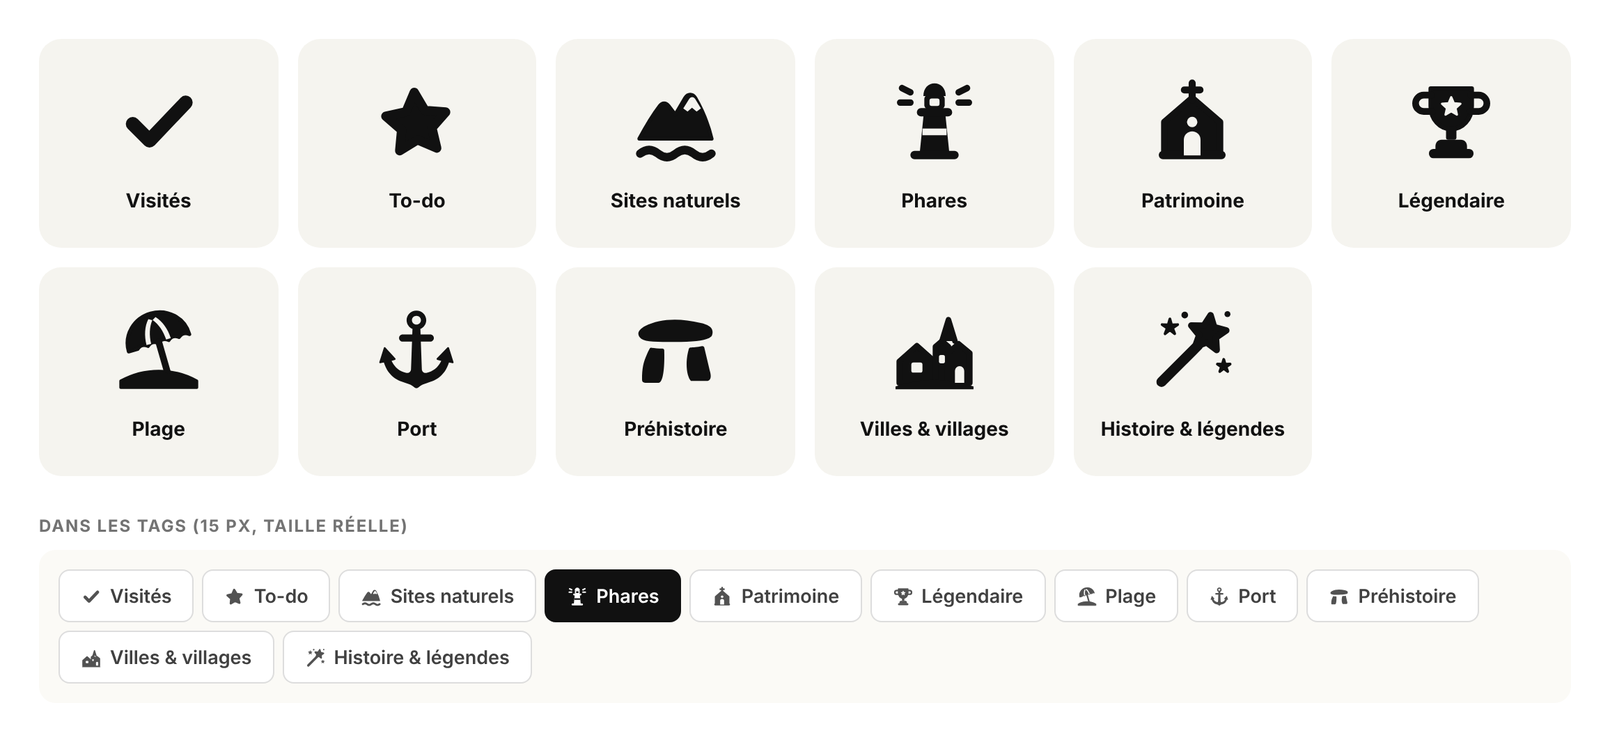
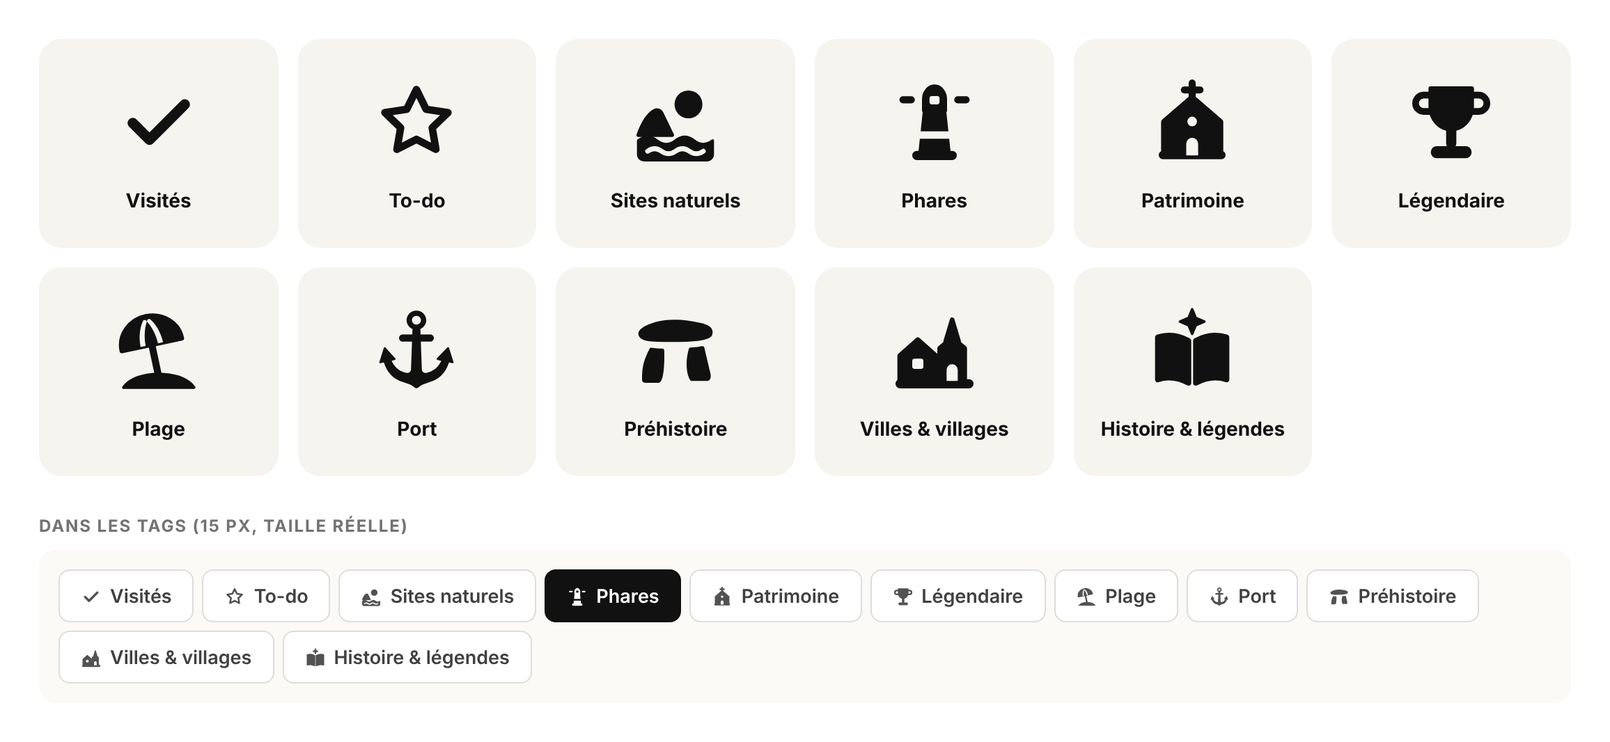
Icônes v5 : coche et étoile linéaires d'origine, mer et soleil, phare, trophée, plage et village simplifiés, livre pour Histoire & légendes
Claude-Session: https://claude.ai/code/session_014EWswg3ZFzwc8Zx7FC5q5D

diff --git a/design/icones-v5/preview.html b/design/icones-v5/preview.html
@@ -7,5 +7,5 @@ h2{font-size:12px;letter-spacing:.08em;text-transform:uppercase;color:#737373;ma
 .tags{display:flex;flex-wrap:wrap;gap:6px;padding:14px;background:#fbfaf6;border-radius:12px}
 .tag{display:inline-flex;align-items:center;gap:6px;height:38px;padding:0 15px;box-sizing:border-box;border:1px solid rgba(17,17,17,.14);border-radius:8px;background:#fff;font:600 13.5px Inter,sans-serif;color:#404040;white-space:nowrap}
 .tag svg{color:#525252}.tag.is-on{background:#111;border-color:#111;color:#fff}.tag.is-on svg{color:#fff}
-</style><body><div class="grid"><div class="card"><svg xmlns="http://www.w3.org/2000/svg" viewBox="0 0 48 48" width="64" height="64"><g fill="currentColor"><path d="M10 25.5l9 9L38.5 14" fill="none" stroke="currentColor" stroke-width="7.5" stroke-linecap="round" stroke-linejoin="round"/></g></svg><span>Visités</span></div><div class="card"><svg xmlns="http://www.w3.org/2000/svg" viewBox="0 0 48 48" width="64" height="64"><g fill="currentColor"><path d="M22.81 8.54L28.56 18.21L39.76 19.13L32.34 27.58L34.93 38.52L24.60 34.08L14.99 39.92L16.03 28.72L7.50 21.39L18.47 18.91Z" stroke="currentColor" stroke-width="5" stroke-linecap="round" stroke-linejoin="round"/></g></svg><span>To-do</span></div><div class="card"><svg xmlns="http://www.w3.org/2000/svg" viewBox="0 0 48 48" width="64" height="64"><defs><mask id="mnature-13"><rect width="48" height="48" fill="#fff"/><g fill="#000"><path d="M28.2 17.2l3.1-5c.9-1.5 2.5-1.5 3.4 0l3 5-2.3 1.6-2.5-2-2.4 2z"/></g></mask></defs><g mask="url(#mnature-13)" fill="currentColor"><path d="M4.5 33.5C8 27 11.5 21 15.5 15.8c1.4-1.9 3.4-1.9 4.8 0l3.6 4.7 5.3-9c1.4-2.4 4.1-2.4 5.5 0C38.8 18.6 41.6 25.6 43.5 33.5z" stroke="currentColor" stroke-width="2" stroke-linecap="round" stroke-linejoin="round"/><path d="M5 41.5c3.2-2.6 6.4-2.6 9.6 0s6.4 2.6 9.6 0 6.4-2.6 9.6 0 6.4 2.6 9.6 0" fill="none" stroke="currentColor" stroke-width="4.5" stroke-linecap="round" stroke-linejoin="round"/></g></svg><span>Sites naturels</span></div><div class="card"><svg xmlns="http://www.w3.org/2000/svg" viewBox="0 0 48 48" width="64" height="64"><defs><mask id="mphare-14"><rect width="48" height="48" fill="#fff"/><g fill="#000"><rect x="21.3" y="11.8" width="5.4" height="4" rx="1.2"/><rect x="17.5" y="28" width="13" height="3.6"/></g></mask></defs><g mask="url(#mphare-14)" fill="currentColor"><path d="M17.5 41.5L19.6 21h8.8l2.1 20.5z" stroke="currentColor" stroke-width="3" stroke-linecap="round" stroke-linejoin="round"/><rect x="14.5" y="17" width="19" height="4.5" rx="2.2"/><rect x="18.5" y="10" width="11" height="7.5" rx="2"/><path d="M18 10.5c0-4.2 2.7-6.8 6-6.8s6 2.6 6 6.8z"/><rect x="11" y="40" width="26" height="4.5" rx="2.2"/><path d="M11 8.5L6.5 6.2M11 14H5.5M37 8.5l4.5-2.3M37 14h5.5" fill="none" stroke="currentColor" stroke-width="3.5" stroke-linecap="round" stroke-linejoin="round"/></g></svg><span>Phares</span></div><div class="card"><svg xmlns="http://www.w3.org/2000/svg" viewBox="0 0 48 48" width="64" height="64"><defs><mask id="mhistoire-15"><rect width="48" height="48" fill="#fff"/><g fill="#000"><path d="M19.5 42.5V34a4.5 4.5 0 019 0v8.5z"/><circle cx="24" cy="24.5" r="2.8"/></g></mask></defs><g mask="url(#mhistoire-15)" fill="currentColor"><path d="M9 42V24.5L24 11.5l15 13V42z" stroke="currentColor" stroke-width="3.5" stroke-linecap="round" stroke-linejoin="round"/><path d="M24 12.5V3.5M19.8 7.2h8.4" fill="none" stroke="currentColor" stroke-width="3.8" stroke-linecap="round" stroke-linejoin="round"/><rect x="6" y="40" width="36" height="4.5" rx="2.2"/></g></svg><span>Patrimoine</span></div><div class="card"><svg xmlns="http://www.w3.org/2000/svg" viewBox="0 0 48 48" width="64" height="64"><defs><mask id="mlegende-16"><rect width="48" height="48" fill="#fff"/><g fill="#000"><path d="M24.00 11.10L25.41 14.36L28.95 14.69L26.28 17.04L27.06 20.51L24.00 18.70L20.94 20.51L21.72 17.04L19.05 14.69L22.59 14.36Z" stroke="black" stroke-width="1.2" stroke-linejoin="round"/></g></mask></defs><g mask="url(#mlegende-16)" fill="currentColor"><path d="M13 6.5h22V16c0 7-4.9 12.2-11 12.2S13 23 13 16z" stroke="currentColor" stroke-width="2.5" stroke-linecap="round" stroke-linejoin="round"/><path d="M13.5 10H9.2a4.4 4.4 0 000 8.8h4.6M34.5 10h4.3a4.4 4.4 0 010 8.8h-4.6" fill="none" stroke="currentColor" stroke-width="3.6" stroke-linecap="round" stroke-linejoin="round"/><rect x="21.2" y="27" width="5.6" height="7" rx="1.2"/><path d="M15.5 37.5c0-2 1.3-3.5 3.3-3.5h10.4c2 0 3.3 1.5 3.3 3.5v2h-17z"/><rect x="12" y="39" width="24" height="5" rx="2.4"/></g></svg><span>Légendaire</span></div><div class="card"><svg xmlns="http://www.w3.org/2000/svg" viewBox="0 0 48 48" width="64" height="64"><defs><mask id="mplage-17"><rect width="48" height="48" fill="#fff"/><g fill="#000"><g transform="rotate(-16 24 20)"><path d="M22 6.6c-3 3.2-4.6 8-4.8 13.2h2.6c.2-4.7 1.6-9 4.1-12.1zM26 6.6c3 3.2 4.6 8 4.8 13.2h-2.6c-.2-4.7-1.6-9-4.1-12.1z"/></g></g></mask></defs><g mask="url(#mplage-17)" fill="currentColor"><g transform="rotate(-16 24 20)"><path d="M7 20.5C7 11.2 14.6 4 24 4s17 7.2 17 16.5c-1.9-1.6-3.9-1.6-5.8 0-1.9-1.6-3.9-1.6-5.8 0-1.9-1.6-3.9-1.6-5.8 0-1.9-1.6-3.9-1.6-5.8 0-1.9-1.6-3.9-1.6-5.8 0z" stroke="currentColor" stroke-width="2" stroke-linecap="round" stroke-linejoin="round"/><path d="M24 20v17" fill="none" stroke="currentColor" stroke-width="3.6" stroke-linecap="round" stroke-linejoin="round"/></g><path d="M3.5 44.5V41c6.5-3.6 13.3-5.3 20.5-5.3S38 37.4 44.5 41v3.5z" stroke="currentColor" stroke-width="1.5" stroke-linecap="round" stroke-linejoin="round"/></g></svg><span>Plage</span></div><div class="card"><svg xmlns="http://www.w3.org/2000/svg" viewBox="0 0 48 48" width="64" height="64"><g fill="currentColor"><path d="M43.9812 30.8315L41.5315 23.0979C41.4813 22.94 41.3511 22.8202 41.1856 22.7839C41.1502 22.7767 41.113 22.7712 41.0777 22.7712C40.9493 22.7712 40.8247 22.8221 40.7336 22.9164L34.9862 28.8222C34.8727 28.9402 34.8299 29.1053 34.8727 29.2614C34.9155 29.4175 35.0383 29.5409 35.1982 29.5845L37.3819 30.2052C35.5107 33.8858 33.0926 35.8187 29.3779 36.6281C29.2347 36.6589 29.0878 36.6753 28.9427 36.6753C27.8378 36.6753 26.9301 35.7841 26.9153 34.677L26.374 19.7929H31.4276C32.5101 19.7929 33.3881 18.9362 33.3881 17.88C33.3881 16.8237 32.5101 15.967 31.4276 15.967H26.2345L26.1247 12.9724C27.9867 12.1738 29.2868 10.3626 29.2868 8.25002C29.2868 5.40059 26.9208 3.0918 24.0003 3.0918C21.0801 3.0918 18.7139 5.4004 18.7139 8.25002C18.7139 10.3608 20.0159 12.1739 21.876 12.9724L21.7662 15.967H16.6064C15.5239 15.967 14.6459 16.8237 14.6459 17.88C14.6459 18.9362 15.5239 19.7929 16.6064 19.7929H21.6267L21.0854 34.6882C21.0724 35.7844 20.1629 36.6755 19.058 36.6755C18.9129 36.6755 18.766 36.6592 18.6227 36.6283C14.9027 35.8189 12.4825 33.8805 10.6097 30.1873L12.4717 29.5811C12.6242 29.5321 12.7395 29.4123 12.7804 29.2617C12.8214 29.111 12.7823 28.9513 12.6763 28.8333L7.27841 22.9275C7.18726 22.8277 7.05706 22.7733 6.925 22.7733C6.89152 22.7733 6.85804 22.7769 6.82456 22.7842C6.65715 22.8205 6.52323 22.9403 6.47115 23.1L4.02149 30.8336C3.97126 30.9915 4.01033 31.1621 4.12565 31.2837C4.21679 31.3799 4.34327 31.4325 4.47534 31.4325C4.50882 31.4325 4.5423 31.4289 4.57764 31.4216L6.45813 31.0205C9.12545 39.064 14.1735 40.7376 18.2434 42.0859C20.148 42.7175 21.7942 43.262 22.7725 44.3691C23.0776 44.714 23.524 44.91 24.0002 44.91C24.4745 44.91 24.9227 44.7122 25.2278 44.3691C26.2062 43.262 27.8523 42.7175 29.757 42.0859C33.8268 40.7375 38.8747 39.0641 41.5422 31.0205L43.4227 31.4216C43.4562 31.4289 43.4896 31.4325 43.525 31.4325C43.657 31.4325 43.7835 31.3799 43.8747 31.2837C43.9881 31.1621 44.0291 30.9915 43.9788 30.8336L43.9812 30.8315ZM24.0025 5.88001C25.3417 5.88001 26.4317 6.94357 26.4317 8.25031C26.4317 9.55706 25.3417 10.6206 24.0025 10.6206C22.6633 10.6206 21.5733 9.55706 21.5733 8.25031C21.5733 6.94357 22.6633 5.88001 24.0025 5.88001Z" /></g></svg><span>Port</span></div><div class="card"><svg xmlns="http://www.w3.org/2000/svg" viewBox="0 0 48 48" width="64" height="64"><g fill="currentColor"><path d="M32.3095 41C30.0868 38.6374 29.0143 31.2547 31.1831 23.6986C31.303 23.2809 31.6856 22.9969 32.1197 22.9776C33.2702 22.9264 35.6545 22.7592 38.3083 22.2154C38.8494 22.1045 39.3886 22.436 39.5154 22.9736L42.3891 35.1537C43.6109 39.0512 43 41 40.5565 41H32.3095Z" /><path d="M7.6 11.4793C3.6 13.7515 2.93333 16.0237 5.6 18.2959C8.0988 20 14.2627 20 23.5909 20H23.6C35.6 20 42.2667 18.8639 43.6 16.5917C44.9333 13.1834 42.9333 10.9112 37.6 9.77515C25.6 6.93491 15.6 7.50296 7.6 11.4793Z" /><path d="M6 39.9999C6 33.5533 6.82503 29.9124 10.0719 23.6512C10.2731 23.2631 10.7048 23.0546 11.1383 23.1109C12.6117 23.3019 14.99 23.4565 16.9596 23.4924C17.4947 23.5021 17.935 23.9121 17.9514 24.447C18.0672 28.2229 18.2548 42 14.8269 42H8.64783C6.2939 42 6 41.3333 6 39.9999Z" /></g></svg><span>Préhistoire</span></div><div class="card"><svg xmlns="http://www.w3.org/2000/svg" viewBox="0 0 48 48" width="64" height="64"><defs><mask id="mvilles-20"><rect width="48" height="48" fill="#fff"/><g fill="#000"><rect x="11.5" y="31" width="6" height="5.5" rx="1.2"/><path d="M35 42v-6.5a2.5 2.5 0 015 0V42z"/><rect x="26.4" y="27" width="3.2" height="4.5" rx="1"/></g></mask></defs><g mask="url(#mvilles-20)" fill="currentColor"><path d="M5 30.5l9.5-8.5 9.5 8.5V42H5z" stroke="currentColor" stroke-width="3" stroke-linecap="round" stroke-linejoin="round"/><path d="M24.5 42V22.5l3.5-3 3.5 3V42zM31 42V26l6-5 6 5v16z" stroke="currentColor" stroke-width="3" stroke-linecap="round" stroke-linejoin="round"/><path d="M28 19.5l3.5-11.5 3.5 11.5" stroke="currentColor" stroke-width="3" stroke-linecap="round" stroke-linejoin="round"/><path d="M3 44c6.8-2.4 13.8-3.6 21-3.6S38.2 41.6 45 44v1.5H3z"/></g></svg><span>Villes & villages</span></div><div class="card"><svg xmlns="http://www.w3.org/2000/svg" viewBox="0 0 48 48" width="64" height="64"><g fill="currentColor"><path d="M7.5 41.5L27 22" fill="none" stroke="currentColor" stroke-width="5.5" stroke-linecap="round" stroke-linejoin="round"/><path d="M33.89 5.60L35.83 12.05L42.35 13.76L36.81 17.60L37.19 24.33L31.83 20.25L25.55 22.69L27.77 16.33L23.51 11.12L30.25 11.26Z" stroke="currentColor" stroke-width="3.5" stroke-linecap="round" stroke-linejoin="round"/><path d="M12.00 7.60L12.88 10.79L16.18 10.64L13.43 12.46L14.59 15.56L12.00 13.50L9.41 15.56L10.57 12.46L7.82 10.64L11.12 10.79Z" stroke="currentColor" stroke-width="1.5" stroke-linecap="round" stroke-linejoin="round"/><path d="M41.00 29.40L41.76 31.95L44.42 31.89L42.24 33.40L43.12 35.91L41.00 34.30L38.88 35.91L39.76 33.40L37.58 31.89L40.24 31.95Z" stroke="currentColor" stroke-width="1.5" stroke-linecap="round" stroke-linejoin="round"/><circle cx="20" cy="5.5" r="1.8"/><circle cx="43" cy="5" r="1.6"/></g></svg><span>Histoire & légendes</span></div></div>
-<h2>Dans les tags (15 px, taille réelle)</h2><div class="tags"><span class="tag "><svg xmlns="http://www.w3.org/2000/svg" viewBox="0 0 48 48" width="15" height="15"><g fill="currentColor"><path d="M10 25.5l9 9L38.5 14" fill="none" stroke="currentColor" stroke-width="7.5" stroke-linecap="round" stroke-linejoin="round"/></g></svg>Visités</span><span class="tag "><svg xmlns="http://www.w3.org/2000/svg" viewBox="0 0 48 48" width="15" height="15"><g fill="currentColor"><path d="M22.81 8.54L28.56 18.21L39.76 19.13L32.34 27.58L34.93 38.52L24.60 34.08L14.99 39.92L16.03 28.72L7.50 21.39L18.47 18.91Z" stroke="currentColor" stroke-width="5" stroke-linecap="round" stroke-linejoin="round"/></g></svg>To-do</span><span class="tag "><svg xmlns="http://www.w3.org/2000/svg" viewBox="0 0 48 48" width="15" height="15"><defs><mask id="mnature-24"><rect width="48" height="48" fill="#fff"/><g fill="#000"><path d="M28.2 17.2l3.1-5c.9-1.5 2.5-1.5 3.4 0l3 5-2.3 1.6-2.5-2-2.4 2z"/></g></mask></defs><g mask="url(#mnature-24)" fill="currentColor"><path d="M4.5 33.5C8 27 11.5 21 15.5 15.8c1.4-1.9 3.4-1.9 4.8 0l3.6 4.7 5.3-9c1.4-2.4 4.1-2.4 5.5 0C38.8 18.6 41.6 25.6 43.5 33.5z" stroke="currentColor" stroke-width="2" stroke-linecap="round" stroke-linejoin="round"/><path d="M5 41.5c3.2-2.6 6.4-2.6 9.6 0s6.4 2.6 9.6 0 6.4-2.6 9.6 0 6.4 2.6 9.6 0" fill="none" stroke="currentColor" stroke-width="4.5" stroke-linecap="round" stroke-linejoin="round"/></g></svg>Sites naturels</span><span class="tag is-on"><svg xmlns="http://www.w3.org/2000/svg" viewBox="0 0 48 48" width="15" height="15"><defs><mask id="mphare-25"><rect width="48" height="48" fill="#fff"/><g fill="#000"><rect x="21.3" y="11.8" width="5.4" height="4" rx="1.2"/><rect x="17.5" y="28" width="13" height="3.6"/></g></mask></defs><g mask="url(#mphare-25)" fill="currentColor"><path d="M17.5 41.5L19.6 21h8.8l2.1 20.5z" stroke="currentColor" stroke-width="3" stroke-linecap="round" stroke-linejoin="round"/><rect x="14.5" y="17" width="19" height="4.5" rx="2.2"/><rect x="18.5" y="10" width="11" height="7.5" rx="2"/><path d="M18 10.5c0-4.2 2.7-6.8 6-6.8s6 2.6 6 6.8z"/><rect x="11" y="40" width="26" height="4.5" rx="2.2"/><path d="M11 8.5L6.5 6.2M11 14H5.5M37 8.5l4.5-2.3M37 14h5.5" fill="none" stroke="currentColor" stroke-width="3.5" stroke-linecap="round" stroke-linejoin="round"/></g></svg>Phares</span><span class="tag "><svg xmlns="http://www.w3.org/2000/svg" viewBox="0 0 48 48" width="15" height="15"><defs><mask id="mhistoire-26"><rect width="48" height="48" fill="#fff"/><g fill="#000"><path d="M19.5 42.5V34a4.5 4.5 0 019 0v8.5z"/><circle cx="24" cy="24.5" r="2.8"/></g></mask></defs><g mask="url(#mhistoire-26)" fill="currentColor"><path d="M9 42V24.5L24 11.5l15 13V42z" stroke="currentColor" stroke-width="3.5" stroke-linecap="round" stroke-linejoin="round"/><path d="M24 12.5V3.5M19.8 7.2h8.4" fill="none" stroke="currentColor" stroke-width="3.8" stroke-linecap="round" stroke-linejoin="round"/><rect x="6" y="40" width="36" height="4.5" rx="2.2"/></g></svg>Patrimoine</span><span class="tag "><svg xmlns="http://www.w3.org/2000/svg" viewBox="0 0 48 48" width="15" height="15"><defs><mask id="mlegende-27"><rect width="48" height="48" fill="#fff"/><g fill="#000"><path d="M24.00 11.10L25.41 14.36L28.95 14.69L26.28 17.04L27.06 20.51L24.00 18.70L20.94 20.51L21.72 17.04L19.05 14.69L22.59 14.36Z" stroke="black" stroke-width="1.2" stroke-linejoin="round"/></g></mask></defs><g mask="url(#mlegende-27)" fill="currentColor"><path d="M13 6.5h22V16c0 7-4.9 12.2-11 12.2S13 23 13 16z" stroke="currentColor" stroke-width="2.5" stroke-linecap="round" stroke-linejoin="round"/><path d="M13.5 10H9.2a4.4 4.4 0 000 8.8h4.6M34.5 10h4.3a4.4 4.4 0 010 8.8h-4.6" fill="none" stroke="currentColor" stroke-width="3.6" stroke-linecap="round" stroke-linejoin="round"/><rect x="21.2" y="27" width="5.6" height="7" rx="1.2"/><path d="M15.5 37.5c0-2 1.3-3.5 3.3-3.5h10.4c2 0 3.3 1.5 3.3 3.5v2h-17z"/><rect x="12" y="39" width="24" height="5" rx="2.4"/></g></svg>Légendaire</span><span class="tag "><svg xmlns="http://www.w3.org/2000/svg" viewBox="0 0 48 48" width="15" height="15"><defs><mask id="mplage-28"><rect width="48" height="48" fill="#fff"/><g fill="#000"><g transform="rotate(-16 24 20)"><path d="M22 6.6c-3 3.2-4.6 8-4.8 13.2h2.6c.2-4.7 1.6-9 4.1-12.1zM26 6.6c3 3.2 4.6 8 4.8 13.2h-2.6c-.2-4.7-1.6-9-4.1-12.1z"/></g></g></mask></defs><g mask="url(#mplage-28)" fill="currentColor"><g transform="rotate(-16 24 20)"><path d="M7 20.5C7 11.2 14.6 4 24 4s17 7.2 17 16.5c-1.9-1.6-3.9-1.6-5.8 0-1.9-1.6-3.9-1.6-5.8 0-1.9-1.6-3.9-1.6-5.8 0-1.9-1.6-3.9-1.6-5.8 0-1.9-1.6-3.9-1.6-5.8 0z" stroke="currentColor" stroke-width="2" stroke-linecap="round" stroke-linejoin="round"/><path d="M24 20v17" fill="none" stroke="currentColor" stroke-width="3.6" stroke-linecap="round" stroke-linejoin="round"/></g><path d="M3.5 44.5V41c6.5-3.6 13.3-5.3 20.5-5.3S38 37.4 44.5 41v3.5z" stroke="currentColor" stroke-width="1.5" stroke-linecap="round" stroke-linejoin="round"/></g></svg>Plage</span><span class="tag "><svg xmlns="http://www.w3.org/2000/svg" viewBox="0 0 48 48" width="15" height="15"><g fill="currentColor"><path d="M43.9812 30.8315L41.5315 23.0979C41.4813 22.94 41.3511 22.8202 41.1856 22.7839C41.1502 22.7767 41.113 22.7712 41.0777 22.7712C40.9493 22.7712 40.8247 22.8221 40.7336 22.9164L34.9862 28.8222C34.8727 28.9402 34.8299 29.1053 34.8727 29.2614C34.9155 29.4175 35.0383 29.5409 35.1982 29.5845L37.3819 30.2052C35.5107 33.8858 33.0926 35.8187 29.3779 36.6281C29.2347 36.6589 29.0878 36.6753 28.9427 36.6753C27.8378 36.6753 26.9301 35.7841 26.9153 34.677L26.374 19.7929H31.4276C32.5101 19.7929 33.3881 18.9362 33.3881 17.88C33.3881 16.8237 32.5101 15.967 31.4276 15.967H26.2345L26.1247 12.9724C27.9867 12.1738 29.2868 10.3626 29.2868 8.25002C29.2868 5.40059 26.9208 3.0918 24.0003 3.0918C21.0801 3.0918 18.7139 5.4004 18.7139 8.25002C18.7139 10.3608 20.0159 12.1739 21.876 12.9724L21.7662 15.967H16.6064C15.5239 15.967 14.6459 16.8237 14.6459 17.88C14.6459 18.9362 15.5239 19.7929 16.6064 19.7929H21.6267L21.0854 34.6882C21.0724 35.7844 20.1629 36.6755 19.058 36.6755C18.9129 36.6755 18.766 36.6592 18.6227 36.6283C14.9027 35.8189 12.4825 33.8805 10.6097 30.1873L12.4717 29.5811C12.6242 29.5321 12.7395 29.4123 12.7804 29.2617C12.8214 29.111 12.7823 28.9513 12.6763 28.8333L7.27841 22.9275C7.18726 22.8277 7.05706 22.7733 6.925 22.7733C6.89152 22.7733 6.85804 22.7769 6.82456 22.7842C6.65715 22.8205 6.52323 22.9403 6.47115 23.1L4.02149 30.8336C3.97126 30.9915 4.01033 31.1621 4.12565 31.2837C4.21679 31.3799 4.34327 31.4325 4.47534 31.4325C4.50882 31.4325 4.5423 31.4289 4.57764 31.4216L6.45813 31.0205C9.12545 39.064 14.1735 40.7376 18.2434 42.0859C20.148 42.7175 21.7942 43.262 22.7725 44.3691C23.0776 44.714 23.524 44.91 24.0002 44.91C24.4745 44.91 24.9227 44.7122 25.2278 44.3691C26.2062 43.262 27.8523 42.7175 29.757 42.0859C33.8268 40.7375 38.8747 39.0641 41.5422 31.0205L43.4227 31.4216C43.4562 31.4289 43.4896 31.4325 43.525 31.4325C43.657 31.4325 43.7835 31.3799 43.8747 31.2837C43.9881 31.1621 44.0291 30.9915 43.9788 30.8336L43.9812 30.8315ZM24.0025 5.88001C25.3417 5.88001 26.4317 6.94357 26.4317 8.25031C26.4317 9.55706 25.3417 10.6206 24.0025 10.6206C22.6633 10.6206 21.5733 9.55706 21.5733 8.25031C21.5733 6.94357 22.6633 5.88001 24.0025 5.88001Z" /></g></svg>Port</span><span class="tag "><svg xmlns="http://www.w3.org/2000/svg" viewBox="0 0 48 48" width="15" height="15"><g fill="currentColor"><path d="M32.3095 41C30.0868 38.6374 29.0143 31.2547 31.1831 23.6986C31.303 23.2809 31.6856 22.9969 32.1197 22.9776C33.2702 22.9264 35.6545 22.7592 38.3083 22.2154C38.8494 22.1045 39.3886 22.436 39.5154 22.9736L42.3891 35.1537C43.6109 39.0512 43 41 40.5565 41H32.3095Z" /><path d="M7.6 11.4793C3.6 13.7515 2.93333 16.0237 5.6 18.2959C8.0988 20 14.2627 20 23.5909 20H23.6C35.6 20 42.2667 18.8639 43.6 16.5917C44.9333 13.1834 42.9333 10.9112 37.6 9.77515C25.6 6.93491 15.6 7.50296 7.6 11.4793Z" /><path d="M6 39.9999C6 33.5533 6.82503 29.9124 10.0719 23.6512C10.2731 23.2631 10.7048 23.0546 11.1383 23.1109C12.6117 23.3019 14.99 23.4565 16.9596 23.4924C17.4947 23.5021 17.935 23.9121 17.9514 24.447C18.0672 28.2229 18.2548 42 14.8269 42H8.64783C6.2939 42 6 41.3333 6 39.9999Z" /></g></svg>Préhistoire</span><span class="tag "><svg xmlns="http://www.w3.org/2000/svg" viewBox="0 0 48 48" width="15" height="15"><defs><mask id="mvilles-31"><rect width="48" height="48" fill="#fff"/><g fill="#000"><rect x="11.5" y="31" width="6" height="5.5" rx="1.2"/><path d="M35 42v-6.5a2.5 2.5 0 015 0V42z"/><rect x="26.4" y="27" width="3.2" height="4.5" rx="1"/></g></mask></defs><g mask="url(#mvilles-31)" fill="currentColor"><path d="M5 30.5l9.5-8.5 9.5 8.5V42H5z" stroke="currentColor" stroke-width="3" stroke-linecap="round" stroke-linejoin="round"/><path d="M24.5 42V22.5l3.5-3 3.5 3V42zM31 42V26l6-5 6 5v16z" stroke="currentColor" stroke-width="3" stroke-linecap="round" stroke-linejoin="round"/><path d="M28 19.5l3.5-11.5 3.5 11.5" stroke="currentColor" stroke-width="3" stroke-linecap="round" stroke-linejoin="round"/><path d="M3 44c6.8-2.4 13.8-3.6 21-3.6S38.2 41.6 45 44v1.5H3z"/></g></svg>Villes & villages</span><span class="tag "><svg xmlns="http://www.w3.org/2000/svg" viewBox="0 0 48 48" width="15" height="15"><g fill="currentColor"><path d="M7.5 41.5L27 22" fill="none" stroke="currentColor" stroke-width="5.5" stroke-linecap="round" stroke-linejoin="round"/><path d="M33.89 5.60L35.83 12.05L42.35 13.76L36.81 17.60L37.19 24.33L31.83 20.25L25.55 22.69L27.77 16.33L23.51 11.12L30.25 11.26Z" stroke="currentColor" stroke-width="3.5" stroke-linecap="round" stroke-linejoin="round"/><path d="M12.00 7.60L12.88 10.79L16.18 10.64L13.43 12.46L14.59 15.56L12.00 13.50L9.41 15.56L10.57 12.46L7.82 10.64L11.12 10.79Z" stroke="currentColor" stroke-width="1.5" stroke-linecap="round" stroke-linejoin="round"/><path d="M41.00 29.40L41.76 31.95L44.42 31.89L42.24 33.40L43.12 35.91L41.00 34.30L38.88 35.91L39.76 33.40L37.58 31.89L40.24 31.95Z" stroke="currentColor" stroke-width="1.5" stroke-linecap="round" stroke-linejoin="round"/><circle cx="20" cy="5.5" r="1.8"/><circle cx="43" cy="5" r="1.6"/></g></svg>Histoire & légendes</span></div></body>
+</style><body><div class="grid"><div class="card"><svg xmlns="http://www.w3.org/2000/svg" viewBox="0 0 48 48" width="64" height="64"><g fill="currentColor"><g transform="scale(2)"><path d="M5 12.5l4.5 4.5L19 7.5" fill="none" stroke="currentColor" stroke-width="2.8" stroke-linecap="round" stroke-linejoin="round"/></g></g></svg><span>Visités</span></div><div class="card"><svg xmlns="http://www.w3.org/2000/svg" viewBox="0 0 48 48" width="64" height="64"><g fill="currentColor"><g transform="scale(2)"><path d="M12 3.5l2.6 5.3 5.9.9-4.25 4.1 1 5.8L12 16.9l-5.25 2.7 1-5.8L3.5 9.7l5.9-.9z" fill="none" stroke="currentColor" stroke-width="2" stroke-linecap="round" stroke-linejoin="round"/></g></g></svg><span>To-do</span></div><div class="card"><svg xmlns="http://www.w3.org/2000/svg" viewBox="0 0 48 48" width="64" height="64"><defs><mask id="mnature-13"><rect width="48" height="48" fill="#fff"/><g fill="#000"><path d="M9 40.2c2.5-1.8 5-1.8 7.5 0s5 1.8 7.5 0 5-1.8 7.5 0 5 1.8 7.5 0" fill="none" stroke="#000" stroke-width="2.6" stroke-linecap="round"/></g></mask></defs><g mask="url(#mnature-13)" fill="currentColor"><circle cx="31" cy="15" r="7.5"/><path d="M4 31.5c2.2-6.2 5-10.8 8.4-12.9 1.6-1 3.3-.5 4.2 1.2l5.6 11.7z" stroke="currentColor" stroke-width="2" stroke-linecap="round" stroke-linejoin="round"/><path d="M4 34.5c3.3-2.6 6.7-2.6 10 0s6.7 2.6 10 0 6.7-2.6 10 0 6.7 2.6 10 0V42a3 3 0 01-3 3H7a3 3 0 01-3-3z" stroke="currentColor" stroke-width="1.5" stroke-linecap="round" stroke-linejoin="round"/></g></svg><span>Sites naturels</span></div><div class="card"><svg xmlns="http://www.w3.org/2000/svg" viewBox="0 0 48 48" width="64" height="64"><defs><mask id="mphare-14"><rect width="48" height="48" fill="#fff"/><g fill="#000"><rect x="21.3" y="10.5" width="5.4" height="4.5" rx="1.3"/><rect x="15" y="29.5" width="18" height="4"/></g></mask></defs><g mask="url(#mphare-14)" fill="currentColor"><path d="M17 41.5L19.5 18h9L31 41.5z" stroke="currentColor" stroke-width="3.5" stroke-linecap="round" stroke-linejoin="round"/><path d="M18 18.5v-6.3C18 8.2 20.7 5 24 5s6 3.2 6 7.2v6.3z" stroke="currentColor" stroke-width="1.5" stroke-linecap="round" stroke-linejoin="round"/><rect x="12" y="40" width="24" height="5" rx="2.5"/><path d="M11.5 12.5H7M36.5 12.5H41" fill="none" stroke="currentColor" stroke-width="3.8" stroke-linecap="round" stroke-linejoin="round"/></g></svg><span>Phares</span></div><div class="card"><svg xmlns="http://www.w3.org/2000/svg" viewBox="0 0 48 48" width="64" height="64"><defs><mask id="mhistoire-15"><rect width="48" height="48" fill="#fff"/><g fill="#000"><path d="M20.8 42.5v-6.3a3.2 3.2 0 016.4 0v6.3z"/><circle cx="24" cy="24.2" r="2.6"/></g></mask></defs><g mask="url(#mhistoire-15)" fill="currentColor"><path d="M9 42V24.5L24 11.5l15 13V42z" stroke="currentColor" stroke-width="3.5" stroke-linecap="round" stroke-linejoin="round"/><path d="M24 12.5V3.5M19.8 7.2h8.4" fill="none" stroke="currentColor" stroke-width="3.8" stroke-linecap="round" stroke-linejoin="round"/><rect x="6" y="40" width="36" height="4.5" rx="2.2"/></g></svg><span>Patrimoine</span></div><div class="card"><svg xmlns="http://www.w3.org/2000/svg" viewBox="0 0 48 48" width="64" height="64"><g fill="currentColor"><path d="M13 6.5h22V16c0 7-4.9 12.2-11 12.2S13 23 13 16z" stroke="currentColor" stroke-width="2.5" stroke-linecap="round" stroke-linejoin="round"/><path d="M13.5 10H9.2a4.4 4.4 0 000 8.8h4.6M34.5 10h4.3a4.4 4.4 0 010 8.8h-4.6" fill="none" stroke="currentColor" stroke-width="3.6" stroke-linecap="round" stroke-linejoin="round"/><path d="M24 27v9" fill="none" stroke="currentColor" stroke-width="5.5" stroke-linecap="round" stroke-linejoin="round"/><rect x="13" y="37.5" width="22" height="6.5" rx="3.2"/></g></svg><span>Légendaire</span></div><div class="card"><svg xmlns="http://www.w3.org/2000/svg" viewBox="0 0 48 48" width="64" height="64"><defs><mask id="mplage-17"><rect width="48" height="48" fill="#fff"/><g fill="#000"><g transform="rotate(-12 24 39)"><path d="M22.3 7.2c-2.8 3.4-4.3 8.2-4.5 13.8h2.8c.2-5.3 1.5-9.9 3.9-13.5zM25.7 7.2c2.8 3.4 4.3 8.2 4.5 13.8h-2.8c-.2-5.3-1.5-9.9-3.9-13.5z"/></g></g></mask></defs><g mask="url(#mplage-17)" fill="currentColor"><g transform="rotate(-12 24 39)"><path d="M7.5 21C7.5 12.2 14.9 5.5 24 5.5S40.5 12.2 40.5 21z" stroke="currentColor" stroke-width="2.5" stroke-linecap="round" stroke-linejoin="round"/><path d="M24 21v17" fill="none" stroke="currentColor" stroke-width="3.8" stroke-linecap="round" stroke-linejoin="round"/></g><path d="M5 44.5c3.2-4.6 10.2-7.2 19-7.2s15.8 2.6 19 7.2z" stroke="currentColor" stroke-width="1.5" stroke-linecap="round" stroke-linejoin="round"/></g></svg><span>Plage</span></div><div class="card"><svg xmlns="http://www.w3.org/2000/svg" viewBox="0 0 48 48" width="64" height="64"><g fill="currentColor"><path d="M43.9812 30.8315L41.5315 23.0979C41.4813 22.94 41.3511 22.8202 41.1856 22.7839C41.1502 22.7767 41.113 22.7712 41.0777 22.7712C40.9493 22.7712 40.8247 22.8221 40.7336 22.9164L34.9862 28.8222C34.8727 28.9402 34.8299 29.1053 34.8727 29.2614C34.9155 29.4175 35.0383 29.5409 35.1982 29.5845L37.3819 30.2052C35.5107 33.8858 33.0926 35.8187 29.3779 36.6281C29.2347 36.6589 29.0878 36.6753 28.9427 36.6753C27.8378 36.6753 26.9301 35.7841 26.9153 34.677L26.374 19.7929H31.4276C32.5101 19.7929 33.3881 18.9362 33.3881 17.88C33.3881 16.8237 32.5101 15.967 31.4276 15.967H26.2345L26.1247 12.9724C27.9867 12.1738 29.2868 10.3626 29.2868 8.25002C29.2868 5.40059 26.9208 3.0918 24.0003 3.0918C21.0801 3.0918 18.7139 5.4004 18.7139 8.25002C18.7139 10.3608 20.0159 12.1739 21.876 12.9724L21.7662 15.967H16.6064C15.5239 15.967 14.6459 16.8237 14.6459 17.88C14.6459 18.9362 15.5239 19.7929 16.6064 19.7929H21.6267L21.0854 34.6882C21.0724 35.7844 20.1629 36.6755 19.058 36.6755C18.9129 36.6755 18.766 36.6592 18.6227 36.6283C14.9027 35.8189 12.4825 33.8805 10.6097 30.1873L12.4717 29.5811C12.6242 29.5321 12.7395 29.4123 12.7804 29.2617C12.8214 29.111 12.7823 28.9513 12.6763 28.8333L7.27841 22.9275C7.18726 22.8277 7.05706 22.7733 6.925 22.7733C6.89152 22.7733 6.85804 22.7769 6.82456 22.7842C6.65715 22.8205 6.52323 22.9403 6.47115 23.1L4.02149 30.8336C3.97126 30.9915 4.01033 31.1621 4.12565 31.2837C4.21679 31.3799 4.34327 31.4325 4.47534 31.4325C4.50882 31.4325 4.5423 31.4289 4.57764 31.4216L6.45813 31.0205C9.12545 39.064 14.1735 40.7376 18.2434 42.0859C20.148 42.7175 21.7942 43.262 22.7725 44.3691C23.0776 44.714 23.524 44.91 24.0002 44.91C24.4745 44.91 24.9227 44.7122 25.2278 44.3691C26.2062 43.262 27.8523 42.7175 29.757 42.0859C33.8268 40.7375 38.8747 39.0641 41.5422 31.0205L43.4227 31.4216C43.4562 31.4289 43.4896 31.4325 43.525 31.4325C43.657 31.4325 43.7835 31.3799 43.8747 31.2837C43.9881 31.1621 44.0291 30.9915 43.9788 30.8336L43.9812 30.8315ZM24.0025 5.88001C25.3417 5.88001 26.4317 6.94357 26.4317 8.25031C26.4317 9.55706 25.3417 10.6206 24.0025 10.6206C22.6633 10.6206 21.5733 9.55706 21.5733 8.25031C21.5733 6.94357 22.6633 5.88001 24.0025 5.88001Z" /></g></svg><span>Port</span></div><div class="card"><svg xmlns="http://www.w3.org/2000/svg" viewBox="0 0 48 48" width="64" height="64"><g fill="currentColor"><path d="M32.3095 41C30.0868 38.6374 29.0143 31.2547 31.1831 23.6986C31.303 23.2809 31.6856 22.9969 32.1197 22.9776C33.2702 22.9264 35.6545 22.7592 38.3083 22.2154C38.8494 22.1045 39.3886 22.436 39.5154 22.9736L42.3891 35.1537C43.6109 39.0512 43 41 40.5565 41H32.3095Z" /><path d="M7.6 11.4793C3.6 13.7515 2.93333 16.0237 5.6 18.2959C8.0988 20 14.2627 20 23.5909 20H23.6C35.6 20 42.2667 18.8639 43.6 16.5917C44.9333 13.1834 42.9333 10.9112 37.6 9.77515C25.6 6.93491 15.6 7.50296 7.6 11.4793Z" /><path d="M6 39.9999C6 33.5533 6.82503 29.9124 10.0719 23.6512C10.2731 23.2631 10.7048 23.0546 11.1383 23.1109C12.6117 23.3019 14.99 23.4565 16.9596 23.4924C17.4947 23.5021 17.935 23.9121 17.9514 24.447C18.0672 28.2229 18.2548 42 14.8269 42H8.64783C6.2939 42 6 41.3333 6 39.9999Z" /></g></svg><span>Préhistoire</span></div><div class="card"><svg xmlns="http://www.w3.org/2000/svg" viewBox="0 0 48 48" width="64" height="64"><defs><mask id="mvilles-20"><rect width="48" height="48" fill="#fff"/><g fill="#000"><rect x="12" y="29" width="6" height="5.5" rx="1.3"/><path d="M30.5 41v-6a3 3 0 016 0v6z"/></g></mask></defs><g mask="url(#mvilles-20)" fill="currentColor"><path d="M5.5 41V27.5L15 19l9.5 8.5V41z" stroke="currentColor" stroke-width="3" stroke-linecap="round" stroke-linejoin="round"/><path d="M27 41V23.5l6.5-5.5 6.5 5.5V41z" stroke="currentColor" stroke-width="3" stroke-linecap="round" stroke-linejoin="round"/><path d="M30 19.8L33.5 8l3.5 11.8z" stroke="currentColor" stroke-width="2.5" stroke-linecap="round" stroke-linejoin="round"/><rect x="3" y="40" width="42" height="5" rx="2.5"/></g></svg><span>Villes & villages</span></div><div class="card"><svg xmlns="http://www.w3.org/2000/svg" viewBox="0 0 48 48" width="64" height="64"><g fill="currentColor"><path d="M5.5 17.5c5.4-1.8 10.9-1.2 16.5 1.8V42c-5.6-3-11.1-3.6-16.5-1.8z" stroke="currentColor" stroke-width="3" stroke-linecap="round" stroke-linejoin="round"/><path d="M42.5 17.5c-5.4-1.8-10.9-1.2-16.5 1.8V42c5.6-3 11.1-3.6 16.5-1.8z" stroke="currentColor" stroke-width="3" stroke-linecap="round" stroke-linejoin="round"/><path d="M24 2.5l1.9 4.6 4.6 1.9-4.6 1.9L24 15.5l-1.9-4.6-4.6-1.9 4.6-1.9z" stroke="currentColor" stroke-width="1.5" stroke-linecap="round" stroke-linejoin="round"/></g></svg><span>Histoire & légendes</span></div></div>
+<h2>Dans les tags (15 px, taille réelle)</h2><div class="tags"><span class="tag "><svg xmlns="http://www.w3.org/2000/svg" viewBox="0 0 48 48" width="15" height="15"><g fill="currentColor"><g transform="scale(2)"><path d="M5 12.5l4.5 4.5L19 7.5" fill="none" stroke="currentColor" stroke-width="2.8" stroke-linecap="round" stroke-linejoin="round"/></g></g></svg>Visités</span><span class="tag "><svg xmlns="http://www.w3.org/2000/svg" viewBox="0 0 48 48" width="15" height="15"><g fill="currentColor"><g transform="scale(2)"><path d="M12 3.5l2.6 5.3 5.9.9-4.25 4.1 1 5.8L12 16.9l-5.25 2.7 1-5.8L3.5 9.7l5.9-.9z" fill="none" stroke="currentColor" stroke-width="2" stroke-linecap="round" stroke-linejoin="round"/></g></g></svg>To-do</span><span class="tag "><svg xmlns="http://www.w3.org/2000/svg" viewBox="0 0 48 48" width="15" height="15"><defs><mask id="mnature-24"><rect width="48" height="48" fill="#fff"/><g fill="#000"><path d="M9 40.2c2.5-1.8 5-1.8 7.5 0s5 1.8 7.5 0 5-1.8 7.5 0 5 1.8 7.5 0" fill="none" stroke="#000" stroke-width="2.6" stroke-linecap="round"/></g></mask></defs><g mask="url(#mnature-24)" fill="currentColor"><circle cx="31" cy="15" r="7.5"/><path d="M4 31.5c2.2-6.2 5-10.8 8.4-12.9 1.6-1 3.3-.5 4.2 1.2l5.6 11.7z" stroke="currentColor" stroke-width="2" stroke-linecap="round" stroke-linejoin="round"/><path d="M4 34.5c3.3-2.6 6.7-2.6 10 0s6.7 2.6 10 0 6.7-2.6 10 0 6.7 2.6 10 0V42a3 3 0 01-3 3H7a3 3 0 01-3-3z" stroke="currentColor" stroke-width="1.5" stroke-linecap="round" stroke-linejoin="round"/></g></svg>Sites naturels</span><span class="tag is-on"><svg xmlns="http://www.w3.org/2000/svg" viewBox="0 0 48 48" width="15" height="15"><defs><mask id="mphare-25"><rect width="48" height="48" fill="#fff"/><g fill="#000"><rect x="21.3" y="10.5" width="5.4" height="4.5" rx="1.3"/><rect x="15" y="29.5" width="18" height="4"/></g></mask></defs><g mask="url(#mphare-25)" fill="currentColor"><path d="M17 41.5L19.5 18h9L31 41.5z" stroke="currentColor" stroke-width="3.5" stroke-linecap="round" stroke-linejoin="round"/><path d="M18 18.5v-6.3C18 8.2 20.7 5 24 5s6 3.2 6 7.2v6.3z" stroke="currentColor" stroke-width="1.5" stroke-linecap="round" stroke-linejoin="round"/><rect x="12" y="40" width="24" height="5" rx="2.5"/><path d="M11.5 12.5H7M36.5 12.5H41" fill="none" stroke="currentColor" stroke-width="3.8" stroke-linecap="round" stroke-linejoin="round"/></g></svg>Phares</span><span class="tag "><svg xmlns="http://www.w3.org/2000/svg" viewBox="0 0 48 48" width="15" height="15"><defs><mask id="mhistoire-26"><rect width="48" height="48" fill="#fff"/><g fill="#000"><path d="M20.8 42.5v-6.3a3.2 3.2 0 016.4 0v6.3z"/><circle cx="24" cy="24.2" r="2.6"/></g></mask></defs><g mask="url(#mhistoire-26)" fill="currentColor"><path d="M9 42V24.5L24 11.5l15 13V42z" stroke="currentColor" stroke-width="3.5" stroke-linecap="round" stroke-linejoin="round"/><path d="M24 12.5V3.5M19.8 7.2h8.4" fill="none" stroke="currentColor" stroke-width="3.8" stroke-linecap="round" stroke-linejoin="round"/><rect x="6" y="40" width="36" height="4.5" rx="2.2"/></g></svg>Patrimoine</span><span class="tag "><svg xmlns="http://www.w3.org/2000/svg" viewBox="0 0 48 48" width="15" height="15"><g fill="currentColor"><path d="M13 6.5h22V16c0 7-4.9 12.2-11 12.2S13 23 13 16z" stroke="currentColor" stroke-width="2.5" stroke-linecap="round" stroke-linejoin="round"/><path d="M13.5 10H9.2a4.4 4.4 0 000 8.8h4.6M34.5 10h4.3a4.4 4.4 0 010 8.8h-4.6" fill="none" stroke="currentColor" stroke-width="3.6" stroke-linecap="round" stroke-linejoin="round"/><path d="M24 27v9" fill="none" stroke="currentColor" stroke-width="5.5" stroke-linecap="round" stroke-linejoin="round"/><rect x="13" y="37.5" width="22" height="6.5" rx="3.2"/></g></svg>Légendaire</span><span class="tag "><svg xmlns="http://www.w3.org/2000/svg" viewBox="0 0 48 48" width="15" height="15"><defs><mask id="mplage-28"><rect width="48" height="48" fill="#fff"/><g fill="#000"><g transform="rotate(-12 24 39)"><path d="M22.3 7.2c-2.8 3.4-4.3 8.2-4.5 13.8h2.8c.2-5.3 1.5-9.9 3.9-13.5zM25.7 7.2c2.8 3.4 4.3 8.2 4.5 13.8h-2.8c-.2-5.3-1.5-9.9-3.9-13.5z"/></g></g></mask></defs><g mask="url(#mplage-28)" fill="currentColor"><g transform="rotate(-12 24 39)"><path d="M7.5 21C7.5 12.2 14.9 5.5 24 5.5S40.5 12.2 40.5 21z" stroke="currentColor" stroke-width="2.5" stroke-linecap="round" stroke-linejoin="round"/><path d="M24 21v17" fill="none" stroke="currentColor" stroke-width="3.8" stroke-linecap="round" stroke-linejoin="round"/></g><path d="M5 44.5c3.2-4.6 10.2-7.2 19-7.2s15.8 2.6 19 7.2z" stroke="currentColor" stroke-width="1.5" stroke-linecap="round" stroke-linejoin="round"/></g></svg>Plage</span><span class="tag "><svg xmlns="http://www.w3.org/2000/svg" viewBox="0 0 48 48" width="15" height="15"><g fill="currentColor"><path d="M43.9812 30.8315L41.5315 23.0979C41.4813 22.94 41.3511 22.8202 41.1856 22.7839C41.1502 22.7767 41.113 22.7712 41.0777 22.7712C40.9493 22.7712 40.8247 22.8221 40.7336 22.9164L34.9862 28.8222C34.8727 28.9402 34.8299 29.1053 34.8727 29.2614C34.9155 29.4175 35.0383 29.5409 35.1982 29.5845L37.3819 30.2052C35.5107 33.8858 33.0926 35.8187 29.3779 36.6281C29.2347 36.6589 29.0878 36.6753 28.9427 36.6753C27.8378 36.6753 26.9301 35.7841 26.9153 34.677L26.374 19.7929H31.4276C32.5101 19.7929 33.3881 18.9362 33.3881 17.88C33.3881 16.8237 32.5101 15.967 31.4276 15.967H26.2345L26.1247 12.9724C27.9867 12.1738 29.2868 10.3626 29.2868 8.25002C29.2868 5.40059 26.9208 3.0918 24.0003 3.0918C21.0801 3.0918 18.7139 5.4004 18.7139 8.25002C18.7139 10.3608 20.0159 12.1739 21.876 12.9724L21.7662 15.967H16.6064C15.5239 15.967 14.6459 16.8237 14.6459 17.88C14.6459 18.9362 15.5239 19.7929 16.6064 19.7929H21.6267L21.0854 34.6882C21.0724 35.7844 20.1629 36.6755 19.058 36.6755C18.9129 36.6755 18.766 36.6592 18.6227 36.6283C14.9027 35.8189 12.4825 33.8805 10.6097 30.1873L12.4717 29.5811C12.6242 29.5321 12.7395 29.4123 12.7804 29.2617C12.8214 29.111 12.7823 28.9513 12.6763 28.8333L7.27841 22.9275C7.18726 22.8277 7.05706 22.7733 6.925 22.7733C6.89152 22.7733 6.85804 22.7769 6.82456 22.7842C6.65715 22.8205 6.52323 22.9403 6.47115 23.1L4.02149 30.8336C3.97126 30.9915 4.01033 31.1621 4.12565 31.2837C4.21679 31.3799 4.34327 31.4325 4.47534 31.4325C4.50882 31.4325 4.5423 31.4289 4.57764 31.4216L6.45813 31.0205C9.12545 39.064 14.1735 40.7376 18.2434 42.0859C20.148 42.7175 21.7942 43.262 22.7725 44.3691C23.0776 44.714 23.524 44.91 24.0002 44.91C24.4745 44.91 24.9227 44.7122 25.2278 44.3691C26.2062 43.262 27.8523 42.7175 29.757 42.0859C33.8268 40.7375 38.8747 39.0641 41.5422 31.0205L43.4227 31.4216C43.4562 31.4289 43.4896 31.4325 43.525 31.4325C43.657 31.4325 43.7835 31.3799 43.8747 31.2837C43.9881 31.1621 44.0291 30.9915 43.9788 30.8336L43.9812 30.8315ZM24.0025 5.88001C25.3417 5.88001 26.4317 6.94357 26.4317 8.25031C26.4317 9.55706 25.3417 10.6206 24.0025 10.6206C22.6633 10.6206 21.5733 9.55706 21.5733 8.25031C21.5733 6.94357 22.6633 5.88001 24.0025 5.88001Z" /></g></svg>Port</span><span class="tag "><svg xmlns="http://www.w3.org/2000/svg" viewBox="0 0 48 48" width="15" height="15"><g fill="currentColor"><path d="M32.3095 41C30.0868 38.6374 29.0143 31.2547 31.1831 23.6986C31.303 23.2809 31.6856 22.9969 32.1197 22.9776C33.2702 22.9264 35.6545 22.7592 38.3083 22.2154C38.8494 22.1045 39.3886 22.436 39.5154 22.9736L42.3891 35.1537C43.6109 39.0512 43 41 40.5565 41H32.3095Z" /><path d="M7.6 11.4793C3.6 13.7515 2.93333 16.0237 5.6 18.2959C8.0988 20 14.2627 20 23.5909 20H23.6C35.6 20 42.2667 18.8639 43.6 16.5917C44.9333 13.1834 42.9333 10.9112 37.6 9.77515C25.6 6.93491 15.6 7.50296 7.6 11.4793Z" /><path d="M6 39.9999C6 33.5533 6.82503 29.9124 10.0719 23.6512C10.2731 23.2631 10.7048 23.0546 11.1383 23.1109C12.6117 23.3019 14.99 23.4565 16.9596 23.4924C17.4947 23.5021 17.935 23.9121 17.9514 24.447C18.0672 28.2229 18.2548 42 14.8269 42H8.64783C6.2939 42 6 41.3333 6 39.9999Z" /></g></svg>Préhistoire</span><span class="tag "><svg xmlns="http://www.w3.org/2000/svg" viewBox="0 0 48 48" width="15" height="15"><defs><mask id="mvilles-31"><rect width="48" height="48" fill="#fff"/><g fill="#000"><rect x="12" y="29" width="6" height="5.5" rx="1.3"/><path d="M30.5 41v-6a3 3 0 016 0v6z"/></g></mask></defs><g mask="url(#mvilles-31)" fill="currentColor"><path d="M5.5 41V27.5L15 19l9.5 8.5V41z" stroke="currentColor" stroke-width="3" stroke-linecap="round" stroke-linejoin="round"/><path d="M27 41V23.5l6.5-5.5 6.5 5.5V41z" stroke="currentColor" stroke-width="3" stroke-linecap="round" stroke-linejoin="round"/><path d="M30 19.8L33.5 8l3.5 11.8z" stroke="currentColor" stroke-width="2.5" stroke-linecap="round" stroke-linejoin="round"/><rect x="3" y="40" width="42" height="5" rx="2.5"/></g></svg>Villes & villages</span><span class="tag "><svg xmlns="http://www.w3.org/2000/svg" viewBox="0 0 48 48" width="15" height="15"><g fill="currentColor"><path d="M5.5 17.5c5.4-1.8 10.9-1.2 16.5 1.8V42c-5.6-3-11.1-3.6-16.5-1.8z" stroke="currentColor" stroke-width="3" stroke-linecap="round" stroke-linejoin="round"/><path d="M42.5 17.5c-5.4-1.8-10.9-1.2-16.5 1.8V42c5.6-3 11.1-3.6 16.5-1.8z" stroke="currentColor" stroke-width="3" stroke-linecap="round" stroke-linejoin="round"/><path d="M24 2.5l1.9 4.6 4.6 1.9-4.6 1.9L24 15.5l-1.9-4.6-4.6-1.9 4.6-1.9z" stroke="currentColor" stroke-width="1.5" stroke-linecap="round" stroke-linejoin="round"/></g></svg>Histoire & légendes</span></div></body>
